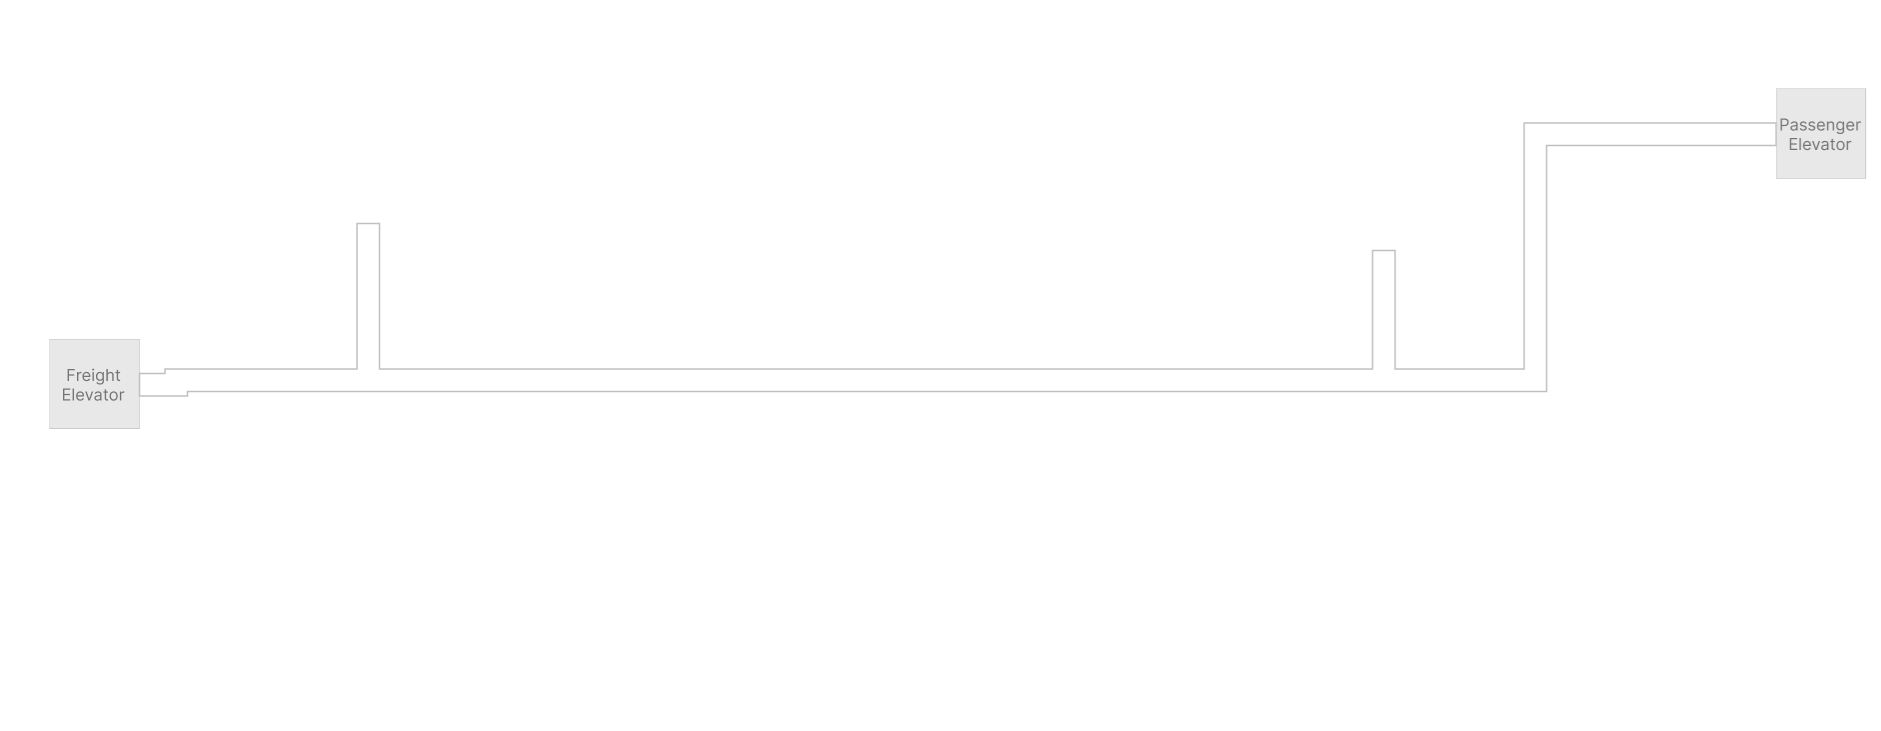
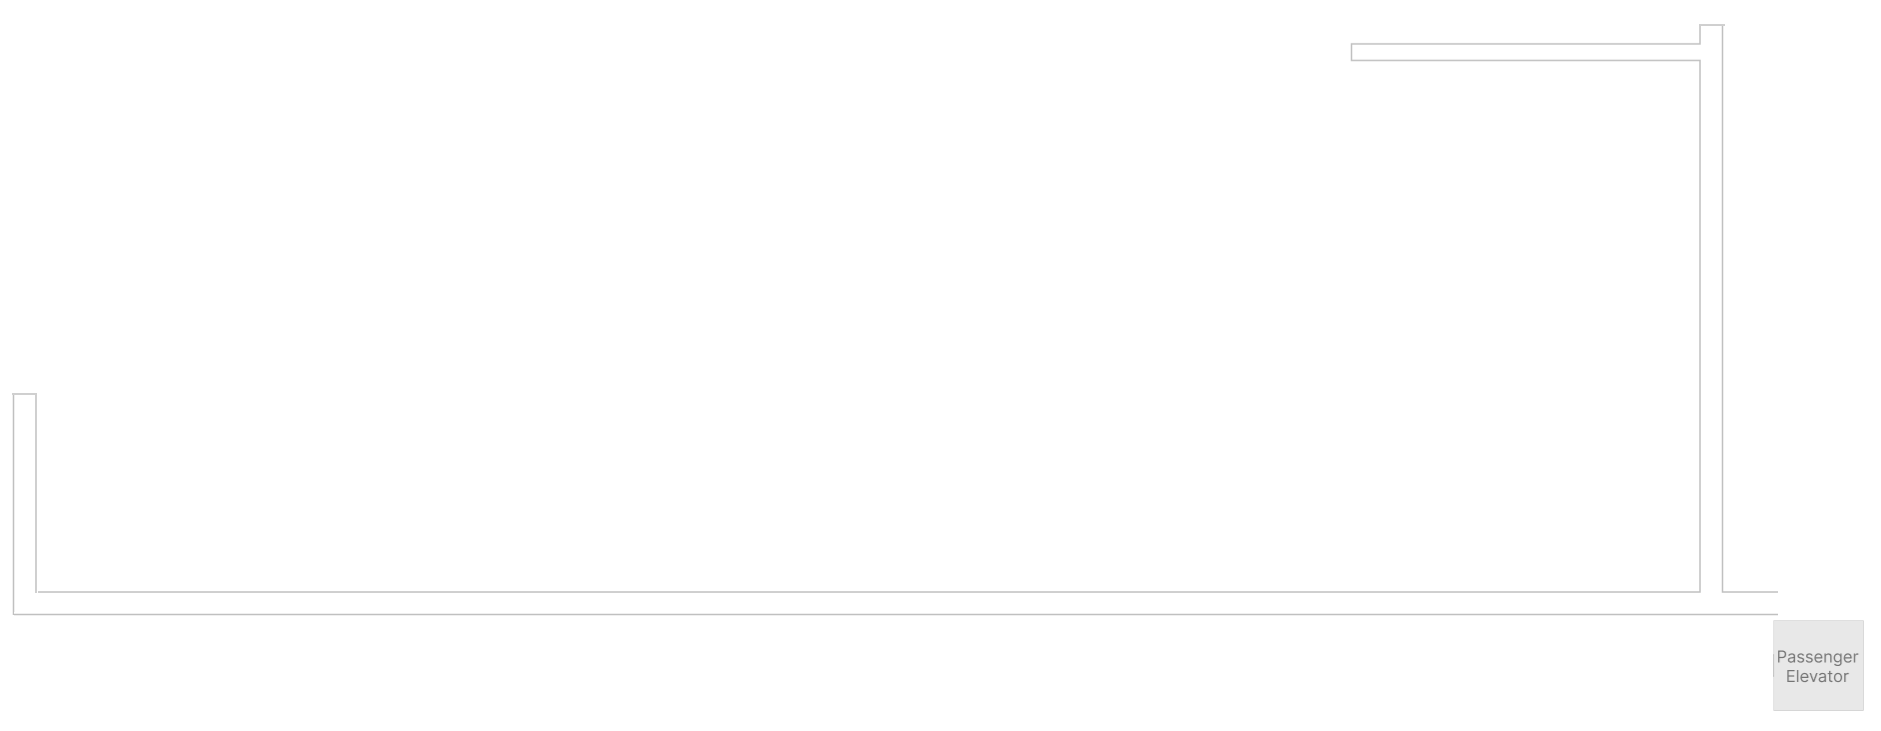
FHT1-3F地圖支援XY軸交換與偏移量設定
調整FHT1-3F區域地圖座標轉換，新增swapXY與rcsOffsetX/Y設定，優化座標讀取與轉換流程。更新appsettings.json與地圖圖片，提升地圖顯示正確性與彈性。

diff --git a/WebGui/SCP/Controllers/CommonController.cs b/WebGui/SCP/Controllers/CommonController.cs
@@ -170,13 +170,26 @@ namespace SCP.Controllers
             List<oPort> query = _DBContext.oPort.Where(p => p.UseFlag == "Y" && p.Area == area).ToList();
             List<Position> result = new List<Position>();
 
+            // 檢查是否需要交換 XY 軸
+            var areaSetting = _configuration.GetSection($"AgvSetting:{area}");
+            bool swapXY = areaSetting["swapXY"] == "true";
+
             foreach (var item in query)
             {
+                string posX = item.Remark.Split(",")[0];
+                string posY = item.Remark.Split(",")[1];
+                
+                // 如果 swapXY 為 true，交換 X 和 Y 座標
+                if (swapXY)
+                {
+                    (posX, posY) = (posY, posX);
+                }
+
                 Position data = new Position
                 {
                     Name = item.StationNo,
-                    Left = ConvertX(item.Remark.Split(",")[0], area),
-                    Bottom = ConvertY(item.Remark.Split(",")[1], area),
+                    Left = ConvertX(posX, area),
+                    Bottom = ConvertY(posY, area),
                     Transform = "rotate(" + item.Remark.Split(",")[2] + "deg)",
                     ImgSrc = GetStationImgSrc(item.HaveFlag, item.WorkOrder),
                     Reserve = string.IsNullOrEmpty(item.BgnToEnd) ? "N" : "Y",
@@ -240,11 +253,24 @@ namespace SCP.Controllers
             string mapCode = GetMapCodeFromArea(area);
             
             List<oShuttle> AgvPositions = _DBContext.oShuttle.Where(x => x.MapCode == mapCode).ToList();
+            // 檢查是否需要交換 XY 軸
+            var areaSetting = _configuration.GetSection($"AgvSetting:{area}");
+            bool swapXY = areaSetting["swapXY"] == "true";
+
             foreach (var item in AgvPositions)
             {
+                string posX = item.PosX;
+                string posY = item.PosY;
+                
+                // 如果 swapXY 為 true，交換 X 和 Y 座標
+                if (swapXY)
+                {
+                    (posX, posY) = (posY, posX);
+                }
+
                 // 使用原始 area 進行座標轉換（因為 appsettings 使用 FHT1-1F 作為 key）
-                item.PosX = ConvertX(item.PosX, area);
-                item.PosY = ConvertY(item.PosY, area);
+                item.PosX = ConvertX(posX, area);
+                item.PosY = ConvertY(posY, area);
             }
             #endregion
             return AgvPositions;
@@ -316,6 +342,7 @@ namespace SCP.Controllers
             double rangeX = maxX - minX;
 
             double normalizedX = (Convert.ToDouble(posX) - minX) / rangeX;
+            normalizedX += Convert.ToDouble(setting["rcsOffsetX"]);
             // 將0-1範圍的X座標轉換為minPercent-maxPercent%範圍
             result = (minPercentX + (normalizedX * percentRangeX)).ToString() + "%";
             return result;
@@ -333,6 +360,7 @@ namespace SCP.Controllers
             double rangeY = maxY - minY;
 
             double normalizedY = (Convert.ToDouble(posY) - minY) / rangeY;
+            normalizedY += Convert.ToDouble(setting["rcsOffsetY"]);
             // 將0-1範圍的X座標轉換為minPercent-maxPercent%範圍
             result = (minPercentY + (normalizedY * percentRangeY)).ToString() + "%";
             return result;
